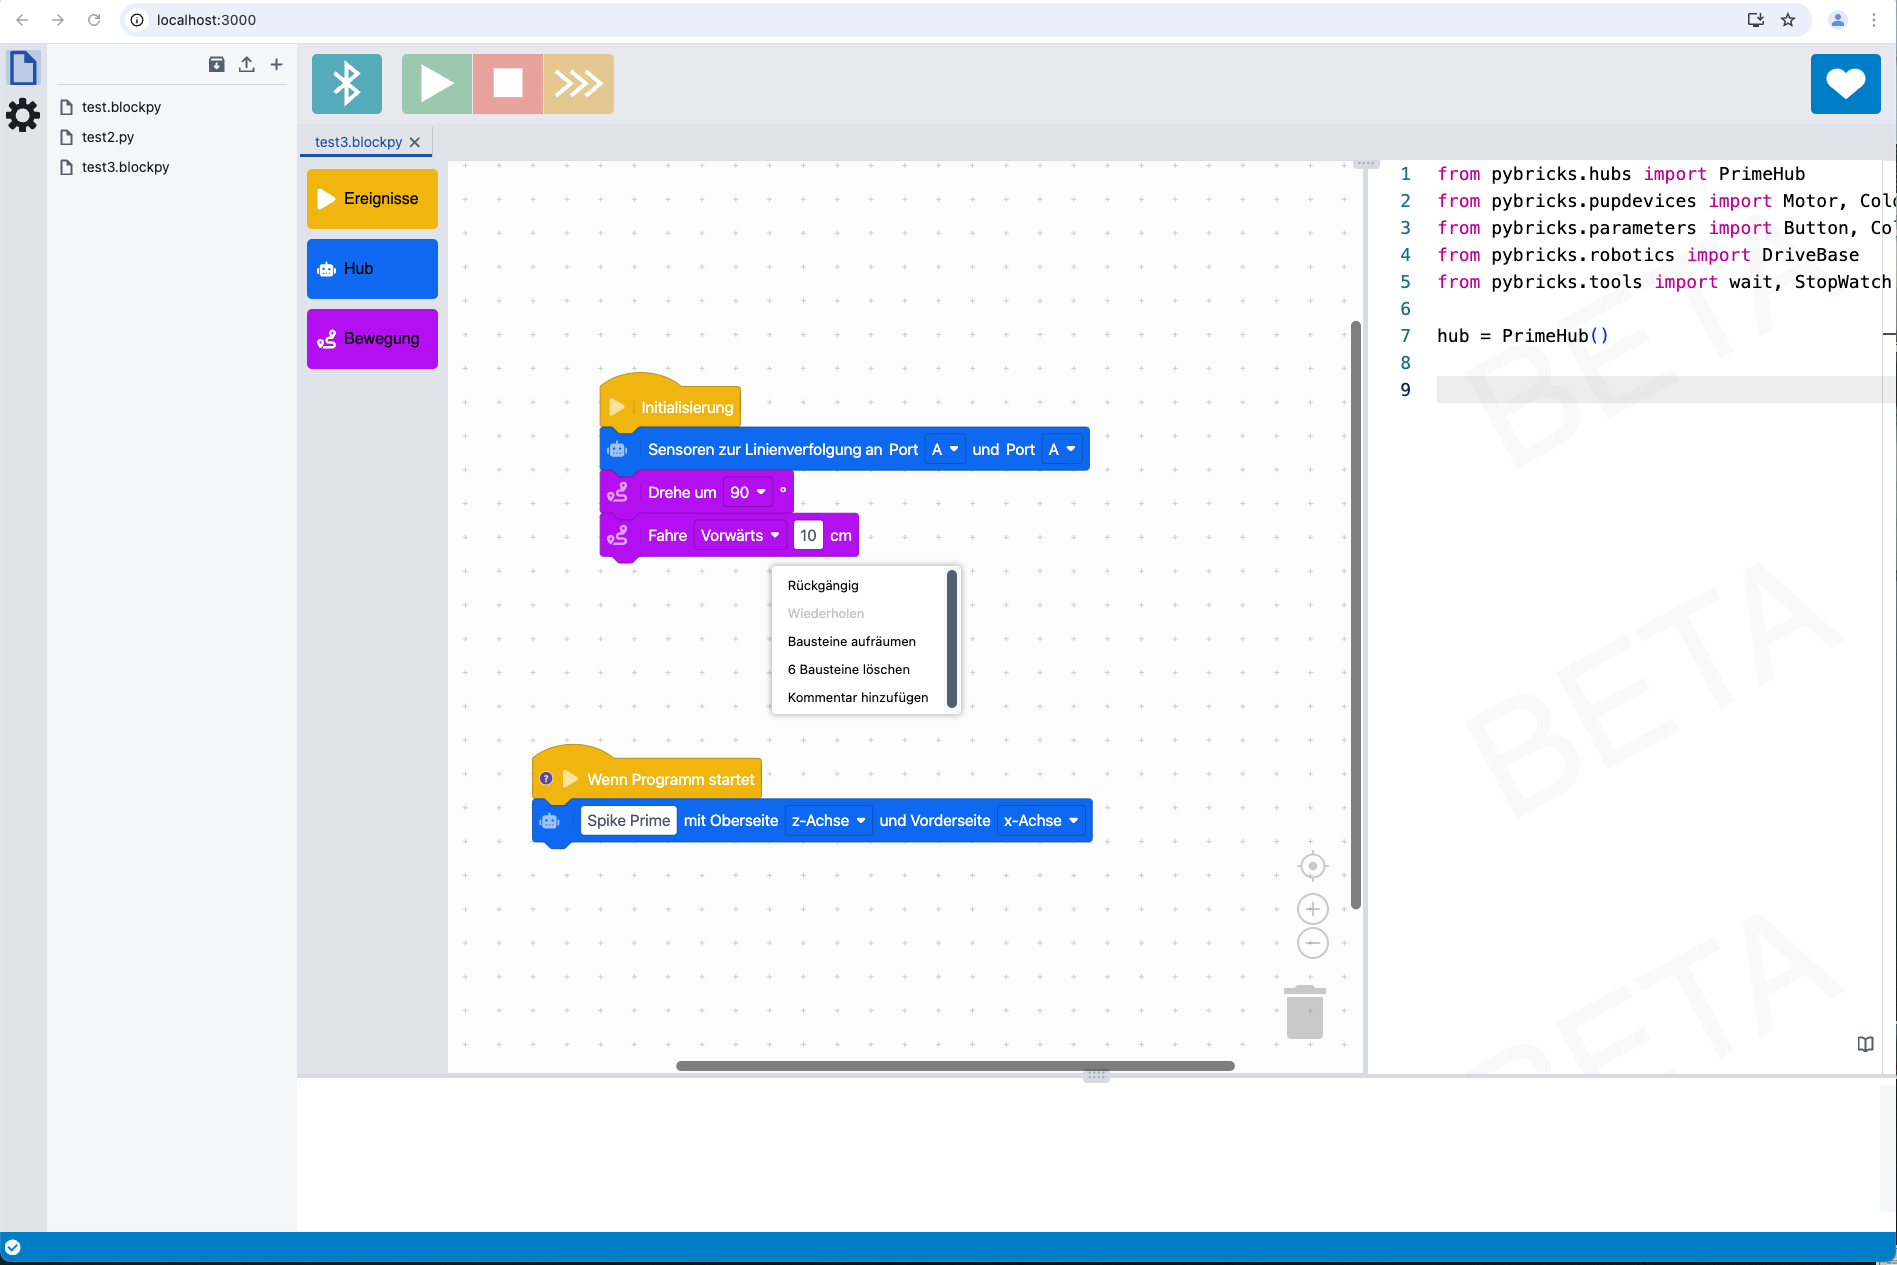
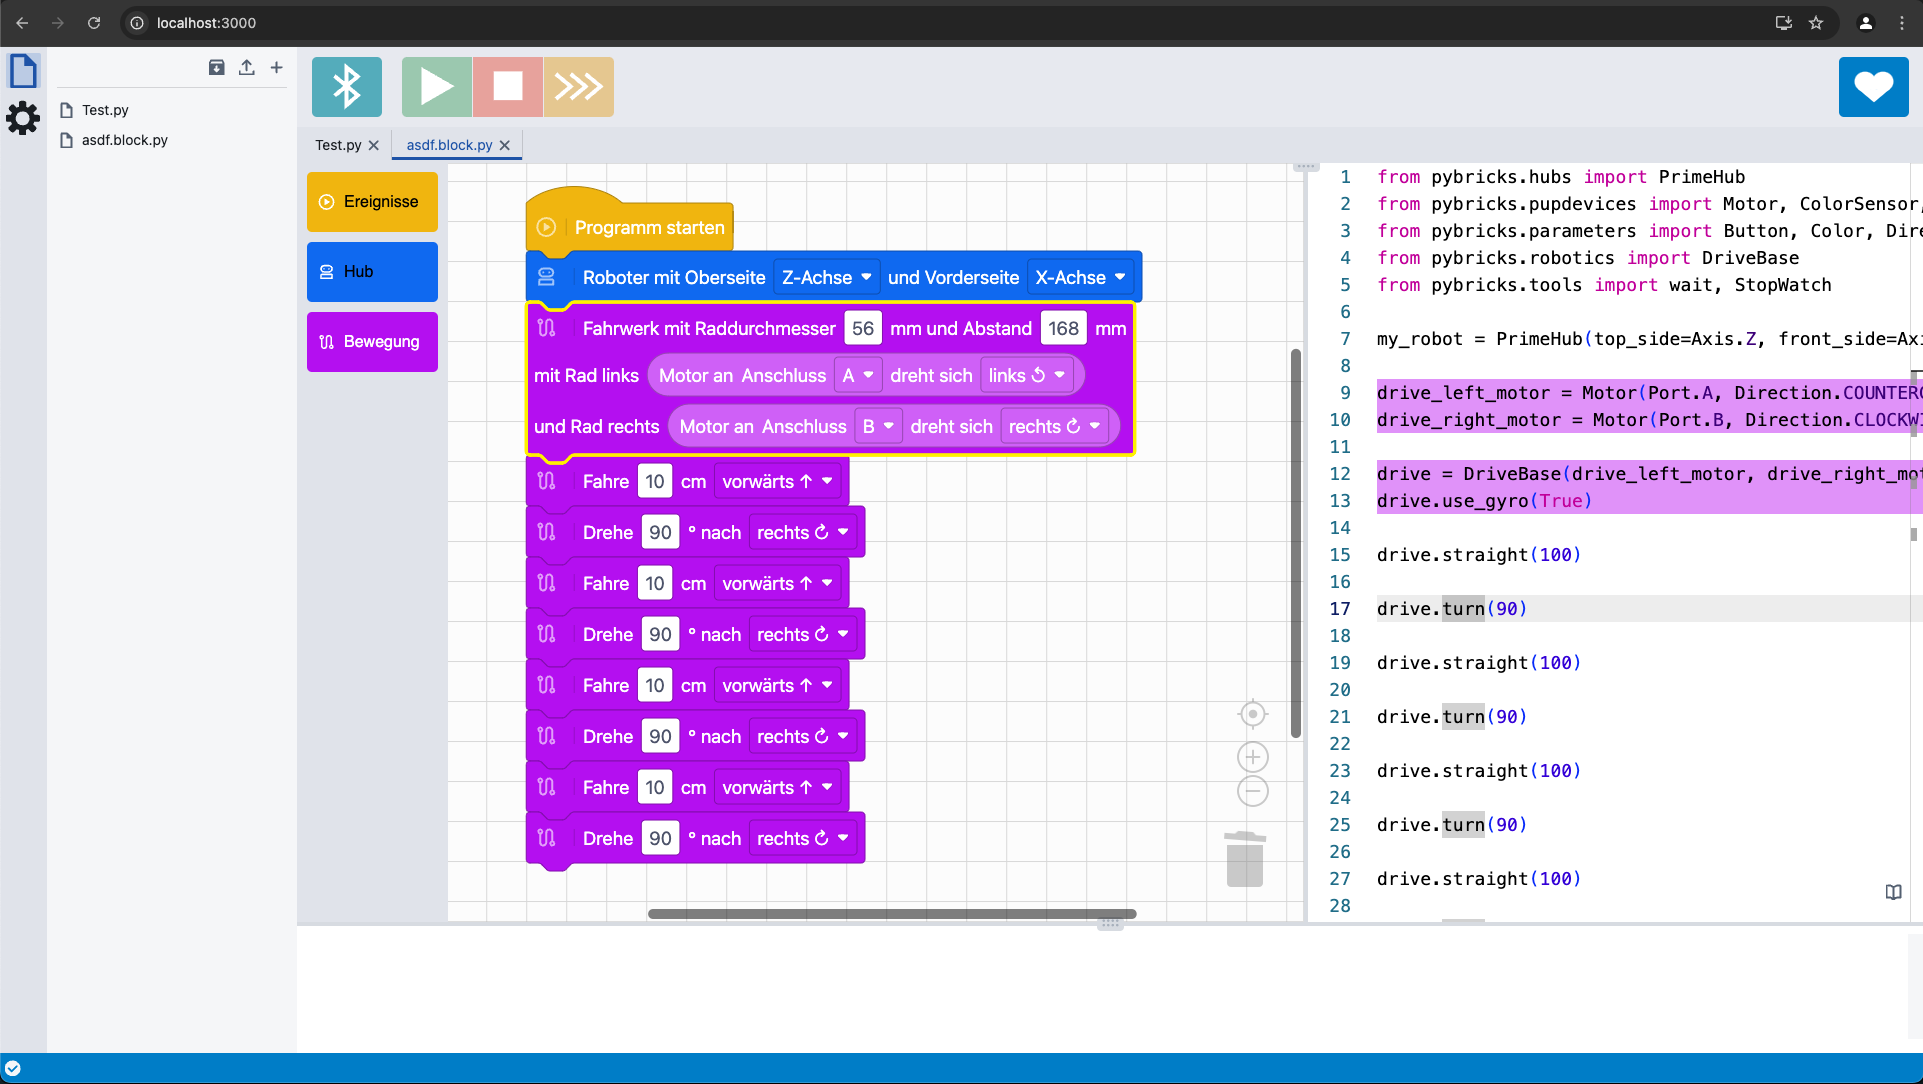
get straight & turn working

Changed region(s): [[0.0, 0.0, 1.0, 1.0], [0.0, 0.9742, 0.3421, 1.0]]

diff --git a/src/editor/blockly/blocks.ts b/src/editor/blockly/blocks.ts
@@ -10,6 +10,14 @@ export const VAR_MOTOR_DIRECTION = 'MOTOR_DIRECTION';
 export const VAR_MOTOR_LEFT = 'MOTOR_LEFT';
 export const VAR_MOTOR_RIGHT = 'MOTOR_RIGHT';
 
+export const VAR_DIAMETER = 'DIAMETER';
+export const VAR_AXLE_TRACK = 'AXLE_TRACK';
+
+export const VAR_DISTANCE = 'DISTANCE';
+export const VAR_DIRECTION = 'DIRECTION';
+
+export const VAR_DEGREES = 'DEGREES';
+
 export const CONNECTION_MOTOR = 'connection.motor';
 
 export enum Axis {
@@ -24,6 +32,10 @@ export enum Port {
     D = 'Port.D',
     E = 'Port.E',
     F = 'Port.F',
+}
+export enum StraightDirection {
+    Forward = 'Forward',
+    Backward = 'Backward',
 }
 
 export enum Direction {
@@ -48,13 +60,16 @@ const blocks = [
     },
     {
         type: 'hub_block',
-        message0: '%3Roboter mit Oberseite %1 und Vorderseite %2',
+        message0: '%1 Roboter mit Oberseite %2 und Vorderseite %3',
         nextStatement: null,
         previousStatement: null,
         style: 'hub_category',
         extensions: ['add_my_custom_icon'],
 
         args0: [
+            {
+                type: 'field_vertical_separator',
+            },
             {
                 type: 'field_dropdown',
                 name: VAR_HUB_TOP_AXIS,
@@ -73,16 +88,13 @@ const blocks = [
                     ['Z-Achse', Axis.Z],
                 ],
             },
-            {
-                type: 'field_vertical_separator',
-            },
         ],
     },
     {
         type: 'drive_motor_block',
         message0: 'Motor an %1 dreht sich %2',
         output: CONNECTION_MOTOR,
-        style: 'movement_category',
+        style: 'movement_category$light',
 
         args0: [
             {
@@ -101,21 +113,37 @@ const blocks = [
                 type: 'field_dropdown',
                 name: VAR_MOTOR_DIRECTION,
                 options: [
-                    ['rechts', Direction.Clockwise],
-                    ['links', Direction.Counterclockwise],
+                    ['rechts ↻', Direction.Clockwise],
+                    ['links ↺', Direction.Counterclockwise],
                 ],
             },
         ],
     },
     {
         type: 'drive_hub',
-        message0: '%1Initialisiere Fahrwerk mit',
+        message0: '%1 Fahrwerk mit Raddurchmesser %2mm und Abstand %3mm',
         args0: [
             {
                 type: 'field_vertical_separator',
             },
+            {
+                type: 'field_number',
+                name: VAR_DIAMETER,
+                value: 56,
+                min: 8,
+                max: 120,
+                precision: 1,
+            },
+            {
+                type: 'field_number',
+                name: VAR_AXLE_TRACK,
+                value: 112,
+                min: 16,
+                max: 240,
+                precision: 1,
+            },
         ],
-        message1: 'Rad links %1',
+        message1: 'mit Rad links %1',
         args1: [
             {
                 type: 'input_value',
@@ -123,7 +151,7 @@ const blocks = [
                 check: CONNECTION_MOTOR,
             },
         ],
-        message2: 'Rad rechts %1',
+        message2: 'und Rad rechts %1',
         args2: [
             {
                 type: 'input_value',
@@ -135,6 +163,68 @@ const blocks = [
         nextStatement: null,
         style: 'movement_category',
         extensions: ['add_my_custom_icon'],
+    },
+    {
+        type: 'move_straight_block',
+        message0: '%1 Fahre %2cm %3',
+        style: 'movement_category',
+        extensions: ['add_my_custom_icon'],
+
+        args0: [
+            {
+                type: 'field_vertical_separator',
+                name: 'separator',
+            },
+            {
+                type: 'field_number',
+                name: VAR_DISTANCE,
+                value: 10.0,
+                min: 0.1,
+                max: 200.0,
+                precision: 0.1,
+            },
+            {
+                type: 'field_dropdown',
+                name: VAR_DIRECTION,
+                options: [
+                    ['vorwärts ↑', StraightDirection.Forward],
+                    ['rückwärts ↓', StraightDirection.Backward],
+                ],
+            },
+        ],
+        nextStatement: null,
+        previousStatement: null,
+    },
+    {
+        type: 'move_curve_block',
+        message0: '%1 Drehe %2° nach %3',
+        style: 'movement_category',
+        extensions: ['add_my_custom_icon'],
+
+        args0: [
+            {
+                type: 'field_vertical_separator',
+                name: 'separator',
+            },
+            {
+                type: 'field_number',
+                name: VAR_DEGREES,
+                value: 90.0,
+                min: 0.1,
+                max: 360.0,
+                precision: 0.1,
+            },
+            {
+                type: 'field_dropdown',
+                name: VAR_DIRECTION,
+                options: [
+                    ['rechts ↻', Direction.Clockwise],
+                    ['links ↺', Direction.Counterclockwise],
+                ],
+            },
+        ],
+        nextStatement: null,
+        previousStatement: null,
     },
 
     /* ---------------------------------------------------------------------------------------------------- */
@@ -152,52 +242,6 @@ const blocks = [
                 name: 'separator',
             },
         ],
-    },
-    {
-        type: 'move_straight_block',
-        message0: '%3 Fahre %1 %2cm',
-        style: 'movement_category',
-        extensions: ['add_my_custom_icon'],
-
-        args0: [
-            {
-                type: 'field_variable',
-                name: 'VAR1',
-                variable: 'Vorwärts',
-            },
-            {
-                type: 'field_input',
-                name: 'VAR2',
-                text: '10',
-                check: 'Number',
-            },
-            {
-                type: 'field_vertical_separator',
-                name: 'separator',
-            },
-        ],
-        nextStatement: null,
-        previousStatement: null,
-    },
-    {
-        type: 'move_curve_block',
-        message0: '%2 Drehe um %1°',
-        style: 'movement_category',
-        extensions: ['add_my_custom_icon'],
-
-        args0: [
-            {
-                type: 'field_variable',
-                name: 'VAR1',
-                variable: '90',
-            },
-            {
-                type: 'field_vertical_separator',
-                name: 'VAR2',
-            },
-        ],
-        nextStatement: null,
-        previousStatement: null,
     },
     {
         type: 'move_follow_line',

diff --git a/src/editor/blockly/codegenerator.ts b/src/editor/blockly/codegenerator.ts
@@ -4,6 +4,13 @@
 import * as Blockly from 'blockly';
 import { Order, PythonGenerator } from 'blockly/python';
 import {
+    Direction,
+    StraightDirection,
+    VAR_AXLE_TRACK,
+    VAR_DEGREES,
+    VAR_DIAMETER,
+    VAR_DIRECTION,
+    VAR_DISTANCE,
     VAR_HUB_FRONT_AXIS,
     VAR_HUB_TOP_AXIS,
     VAR_MOTOR_DIRECTION,
@@ -103,14 +110,18 @@ pythonGenerator.forBlock['hub_block'] = (block, _generator) => {
     return `${robotHubName} = PrimeHub(top_side=${topAxis}, front_side=${frontAxis})`;
 };
 
-pythonGenerator.forBlock['drive_hub'] = (block, _generator) => {
-    const leftMotor = _generator.valueToCode(block, VAR_MOTOR_LEFT, Order.ATOMIC);
-    const rightMotor = _generator.valueToCode(block, VAR_MOTOR_RIGHT, Order.ATOMIC);
+pythonGenerator.forBlock['drive_hub'] = (block, generator) => {
+    const leftMotor = generator.valueToCode(block, VAR_MOTOR_LEFT, Order.ATOMIC);
+    const rightMotor = generator.valueToCode(block, VAR_MOTOR_RIGHT, Order.ATOMIC);
+
+    const diameter = block.getFieldValue(VAR_DIAMETER);
+    const axleTrack = block.getFieldValue(VAR_AXLE_TRACK);
 
     return `drive_left_motor = ${leftMotor}
 drive_right_motor = ${rightMotor}
 
-drive = DriveBase(drive_left_motor, drive_right_motor, wheel_diameter=, axle_track=)`;
+drive = DriveBase(drive_left_motor, drive_right_motor, ${diameter}, ${axleTrack})
+drive.use_gyro(True)`;
 };
 
 pythonGenerator.forBlock['drive_motor_block'] = (block, _generator) => {
@@ -118,6 +129,28 @@ pythonGenerator.forBlock['drive_motor_block'] = (block, _generator) => {
     const direction = block.getFieldValue(VAR_MOTOR_DIRECTION);
 
     return [`Motor(${port}, ${direction})`, Order.ATOMIC];
+};
+
+pythonGenerator.forBlock['move_straight_block'] = (block, _generator) => {
+    let distance = block.getFieldValue(VAR_DISTANCE) * 10;
+    const direction = block.getFieldValue(VAR_DIRECTION);
+
+    if (direction === StraightDirection.Backward) {
+        distance *= -1;
+    }
+
+    return `drive.straight(${distance})`;
+};
+
+pythonGenerator.forBlock['move_curve_block'] = (block, _generator) => {
+    let distance = block.getFieldValue(VAR_DEGREES);
+    const direction = block.getFieldValue(VAR_DIRECTION);
+
+    if (direction === Direction.Counterclockwise) {
+        distance *= -1;
+    }
+
+    return `drive.turn(${distance})`;
 };
 
 /* ---- */
@@ -136,24 +169,12 @@ drive_base = DriveBase(left_motor, right_motor, wheel_diameter=56, axle_track=11
 drive_base.use_gyro(True)`;
 };
 
-pythonGenerator.forBlock['move_curve_block'] = (_block, _generator) => {
-    // Collect argument strings.
-    // const fieldValue = block.getFieldValue('MY_FIELD');
-    // const innerCode = generator.statementToCode(block, 'MY_STATEMENT_INPUT');
-
-    return `drive_base.turn(90)`;
-};
-
 pythonGenerator.forBlock['line_follow_block'] = (_block, _generator) => {
     return `# Jaja, das wird irgendwann`;
 };
 
 pythonGenerator.forBlock['move_follow_line'] = (_block, _generator) => {
     return `# Hey, das ist eine Alpha!`;
-};
-
-pythonGenerator.forBlock['move_straight_block'] = (_block, _generator) => {
-    return `# brumm brumm brumm`;
 };
 
 pythonGenerator.forBlock['setup_program'] = (_block, _generator) => {

diff --git a/src/editor/EditorBlockly.tsx b/src/editor/EditorBlockly.tsx
@@ -322,6 +322,9 @@ const BlocklyEditor: React.FunctionComponent = () => {
                 movement_category: {
                     colourPrimary: '#bc0cf2',
                 },
+                movement_category$light: {
+                    colourPrimary: '#D56BF8',
+                },
             },
             categoryStyles: {
                 event_category: {
@@ -338,7 +341,7 @@ const BlocklyEditor: React.FunctionComponent = () => {
                 toolboxBackgroundColour: '#e4e7ed',
                 toolboxForegroundColour: '#000',
                 flyoutBackgroundColour: '#e4e7ed',
-                flyoutOpacity: 0.66,
+                flyoutOpacity: 0.85,
 
                 workspaceBackgroundColour: '#fcfcfc',
                 scrollbarColour: '#000000',
@@ -469,8 +472,8 @@ const BlocklyEditor: React.FunctionComponent = () => {
             },
             grid: {
                 spacing: 40,
-                length: 6,
-                colour: '#ccc',
+                length: 41,
+                colour: '#ddd',
                 snap: true,
             },
             trashcan: true,

diff --git a/src/editor/Welcome.tsx b/src/editor/Welcome.tsx
@@ -9,7 +9,7 @@ import Two from 'two.js';
 import { useTernaryDarkMode } from 'usehooks-ts';
 import logoSvg from './logo.svg';
 
-const defaultRotation = -Math.PI / 9; // radians
+const defaultRotation = 0; //-Math.PI / 9; // radians
 const rotationSpeedIncrement = 0.1; // radians per second
 
 type State = {
@@ -103,7 +103,7 @@ const Welcome: React.FunctionComponent<WelcomeProps> = ({ isVisible }) => {
                 timeDelta: time / 1000,
             });
 
-            logo.fill = fillColorRef.current;
+            //logo.fill = fillColorRef.current;
             logo.scale = Math.min(two.width, two.height) / 80;
             logo.rotation = stateRef.current.rotation;
 

diff --git a/TODO.md b/TODO.md
@@ -1,5 +1,6 @@
 # In loser Reihenfolge
 
-- [ ] maxInstances für Startblöcke setzen
+- [x] maxInstances für Startblöcke setzen
 - [ ] Undo Resetten beim Laden von Blocklys
 - [x] Verknüpfung zwischen Quellcode und Blöcken
+- [ ] eine Art "virtuellen Coache" implementieren, der auf mögliche Fehler aufmerksam macht
